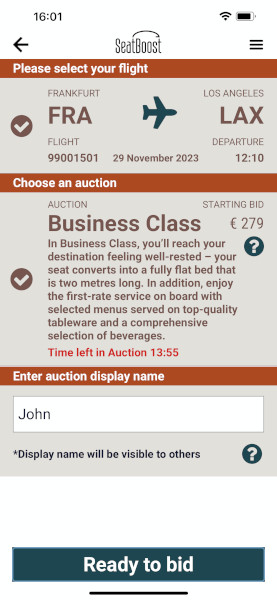
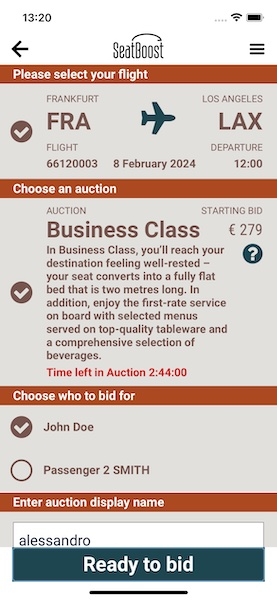
select-upgrade iphone 14

diff --git a/docs/plugins/theme-helper/screens/select-upgrade-1.js b/docs/plugins/theme-helper/screens/select-upgrade-1.js
@@ -1,18 +1,14 @@
 export var selectUpgrade1Coords = {
-  'navigation-bar-icon': ['4,30,39,56', '104,28,172,56', '239,30,273,56'], 
-  'navigation-bar': ['0,27,277,59'],
-  'section-bar':  ['0,59,276,78', '0,174,276,193', '0,367,276,386'],
-  'h1-text' : ['43,84,106,101', '200,84,267,101', '43,134,86,149', '205,134,267,149', '43,197,97,213', '199,197,269,213'],
-  'p-text' : ['43,102,102,129','212,102,270,129', '43,148,102,167', '229,149,269,168', 
-    '107,150,206,166', '43,211,211,235', '224,211,267,235', '43,236,242,343'],
-  'time-left': ['43,344,185,362'],
-  'radio-button': ['6,110,37,143', '6,263,37,296'],
-  'airplane': ['133,91,186,135'],
-  'text-field': ['14,396,263,432'],
-  'help-icon': ['240,232,269,260', '238,440,267,468'],
-  'display-name-msg': ['9,444,211,465'],
-  'submit-button': ['13,547,265,581'],
-  'grid-cell': ['1,79,276,172', '1,192,276,367'],
-  'form-bg': ['0,386,277,476'],
+  'navigation-bar-icon': ['4,35,39,61', '104,33,172,61', '239,35,273,61'], 
+  'navigation-bar': ['0,32,277,64'],
+  'section-bar':  ['0,65,276,83', '0,179,276,198'],
+  'h1-text' : ['43,89,106,106', '200,89,267,106', '43,139,86,154', '205,139,267,154', '43,202,97,218', '199,202,269,218'],
+  'p-text' : ['43,107,102,134','212,107,270,134', '43,153,102,172', '229,154,269,173', 
+    '107,155,206,171', '43,217,211,242', '224,216,267,240', '43,241,242,364'],
+  'airplane': ['135,96,180,140'],
+  'time-left': ['43,364,195,382'],
+  'radio-button': ['6,115,37,148', '6,276,37,309'],
+  'help-icon': ['238,239,268,269'],
+  'grid-cell': ['1,84,276,179', '1,197,276,386'],
   'screen-bg': ['0,28,277,599']
 };

diff --git a/docs/plugins/theme-helper/screens/select-upgrade-2.js b/docs/plugins/theme-helper/screens/select-upgrade-2.js
@@ -1,5 +1,11 @@
 export var selectUpgrade2Coords = {
-  'section-bar': ['0,330,277,351'],
+  'section-bar':  ['0,330,277,350', '0,437,277,457'],
   'radio-button': ['6,356,35,388', '6,399,35,431'], 
-  'p-text': ['38,356,270,388', '38,399,270,431']
+  'p-text': ['38,356,270,388', '38,399,270,431'],
+  'submit-button': ['13,547,265,581'],
+  'text-field': ['14,467,263,503'],
+  'help-icon': ['238,510,268,540'],
+  'display-name-msg': ['9,516,211,538'],
+  'grid-cell': ['1,349,276,437'],
+  'form-bg': ['0,456,277,548'],
 };
